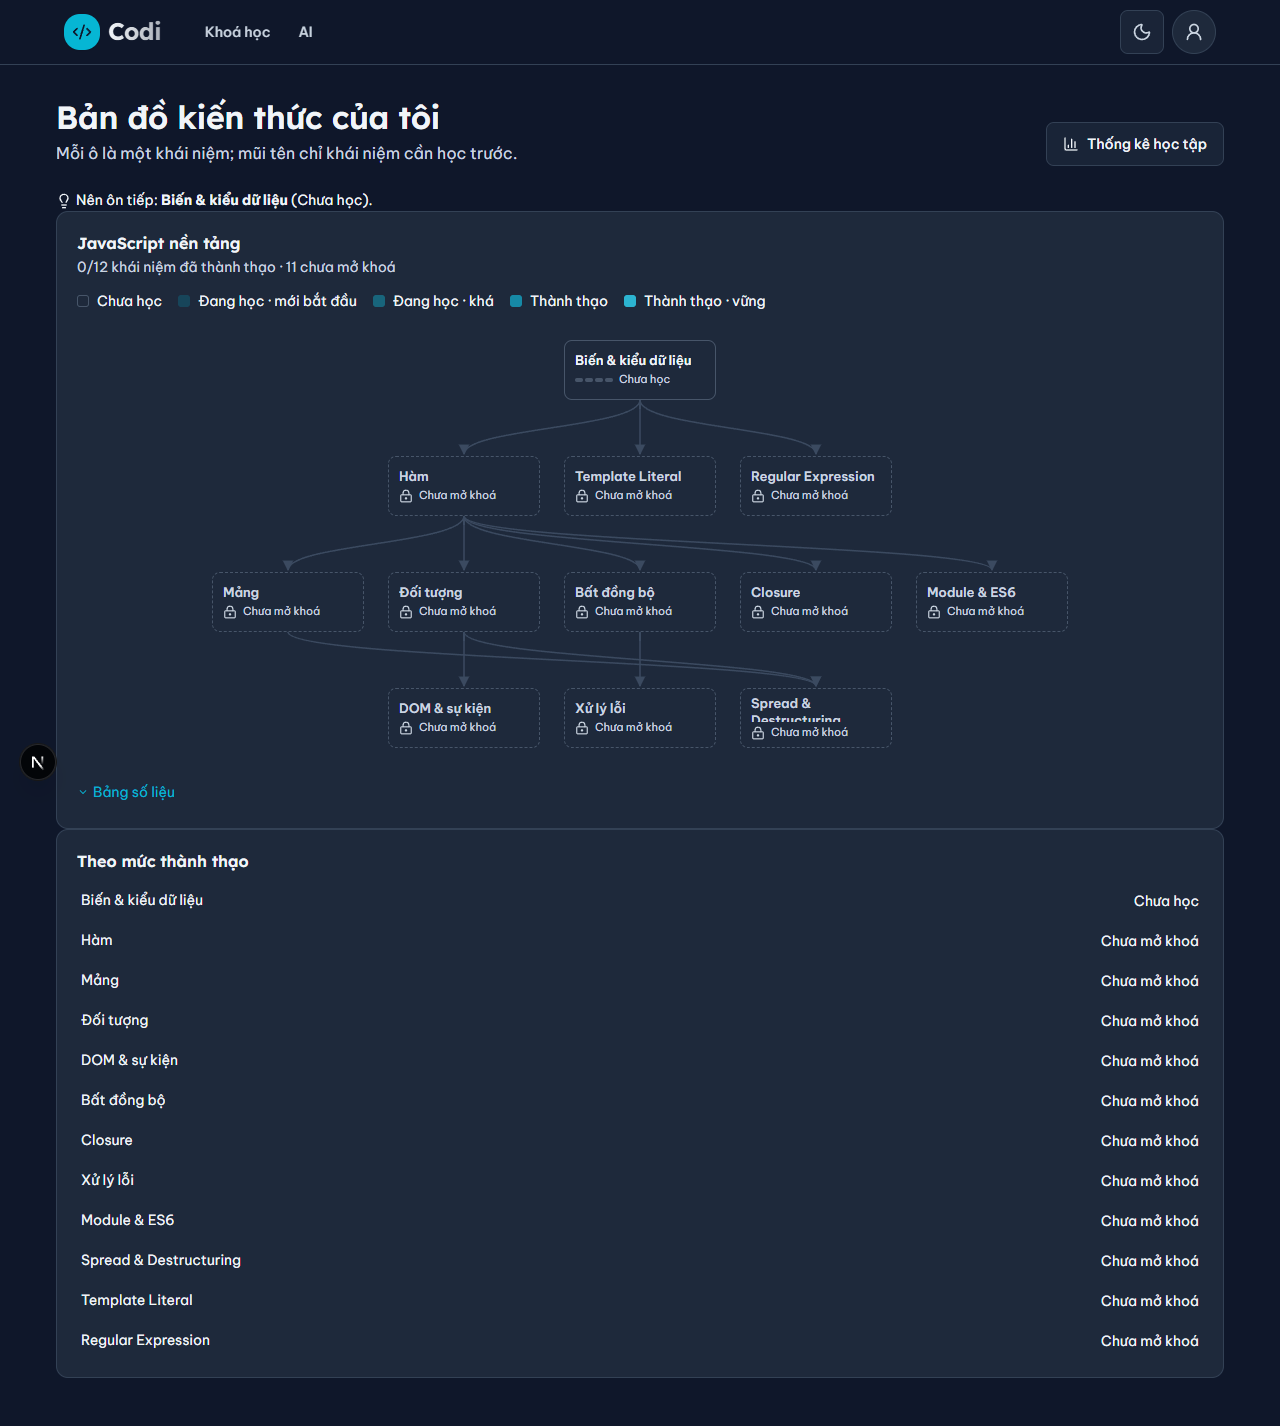
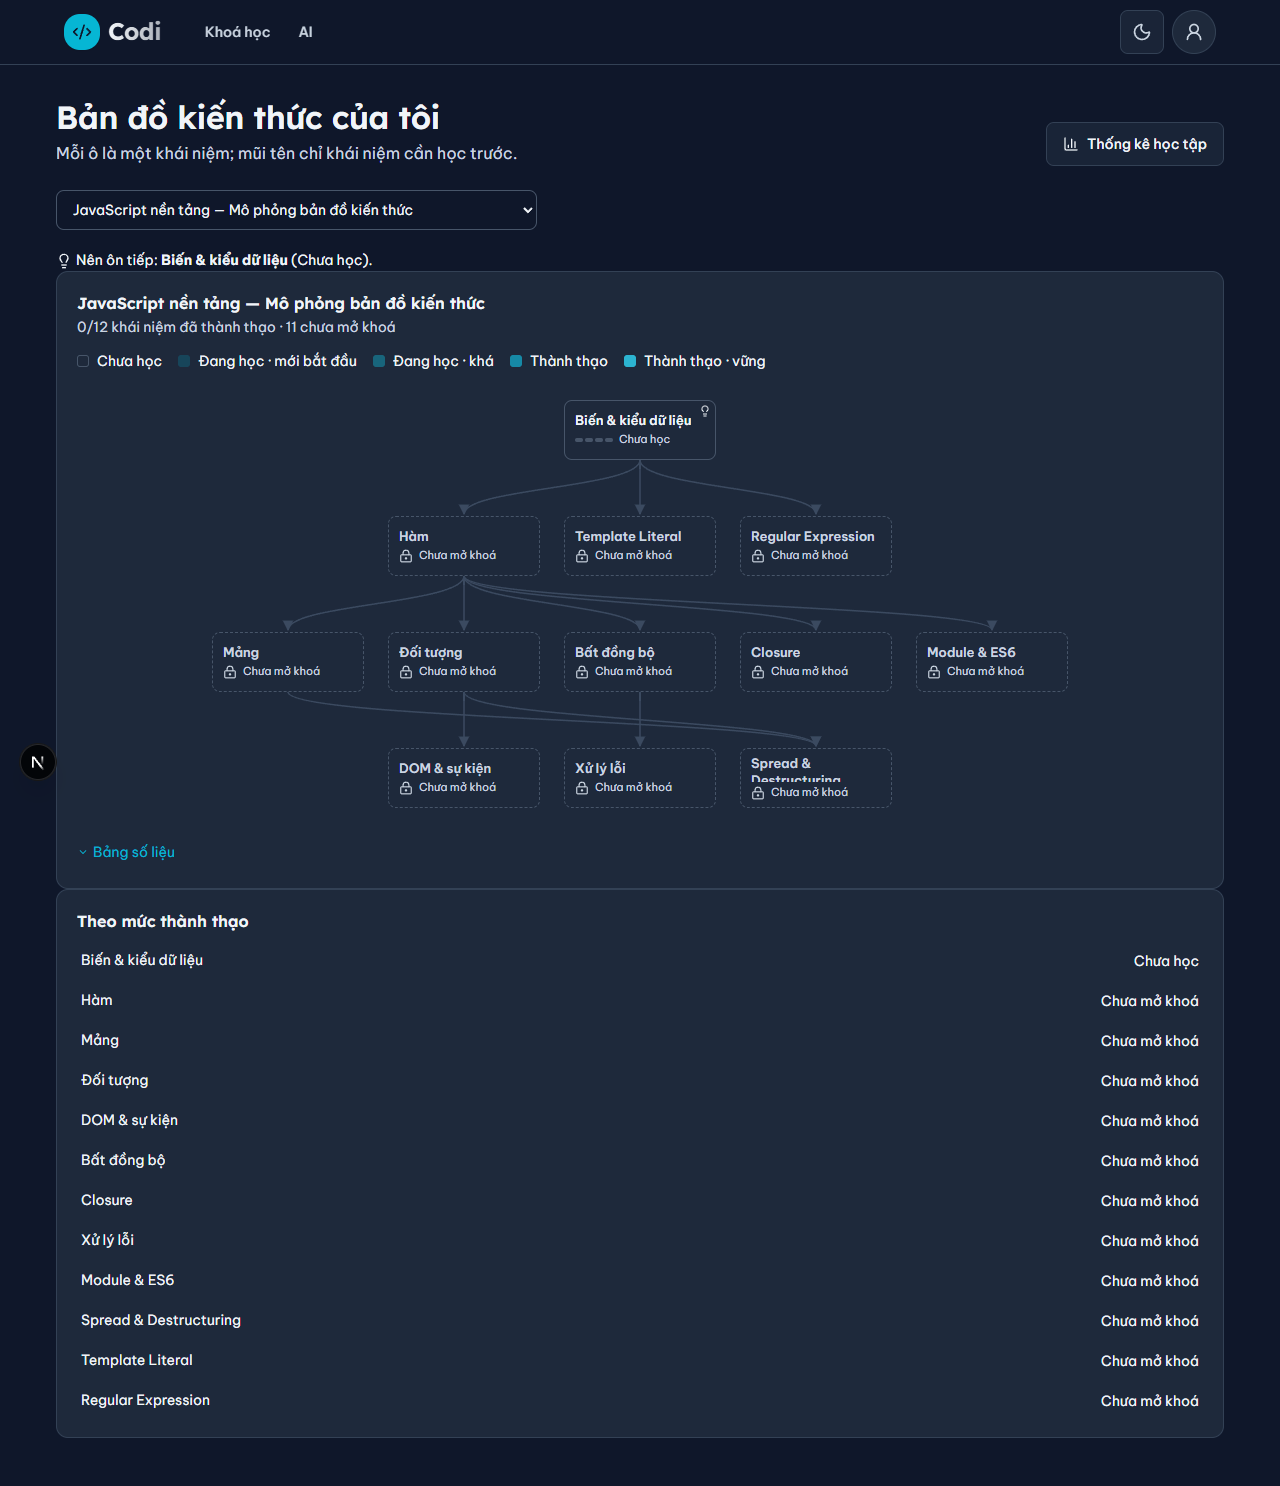
fix(knowledge-map): contain mobile graph and refresh full-page screenshots

diff --git a/apps/web/src/app/learn/[courseId]/course-home.tsx b/apps/web/src/app/learn/[courseId]/course-home.tsx
@@ -258,7 +258,7 @@ export default function CourseHome({
       ? GOAL_LABELS[data.goal as keyof typeof GOAL_LABELS]
       : "Chưa đặt mục tiêu";
   return (
-    <main className="mx-auto w-full max-w-6xl space-y-6 p-4 sm:p-6">
+    <main className="mx-auto min-w-0 w-full max-w-6xl space-y-6 p-4 sm:p-6">
       <nav className="text-sm text-muted-foreground" aria-label="Đường dẫn">
         <Link href="/dashboard">Bàn làm việc</Link> / {data.course.title}
       </nav>

diff --git a/apps/web/src/app/insights/knowledge-map/page.tsx b/apps/web/src/app/insights/knowledge-map/page.tsx
@@ -17,7 +17,7 @@ export default async function KnowledgeMapPage({
     );
   const { course } = await searchParams;
   return (
-    <main className="mx-auto w-full max-w-[1200px] px-4 pb-12 pt-8">
+    <main className="mx-auto min-w-0 w-full max-w-[1200px] px-4 pb-12 pt-8">
       <KnowledgeMap initialCourseId={course} />
     </main>
   );

diff --git a/docs/ui-review/issue-161/README.md b/docs/ui-review/issue-161/README.md
@@ -1,75 +1,55 @@
 # Issue #161 — Knowledge map mockup parity
 
-Epic #94 · S13c · Flow L12 · `/insights/knowledge-map`.
+Epic #94 · Module #97 · S13c / Flow L12 · `/insights/knowledge-map`.
 
 ## Implementation
 
-- Geometry matches `docs/mockup/js/charts.js`: nodes 152×60, horizontal gap 24, vertical gap 56, padding 16. Each topological layer is centred; edges run from the prerequisite's bottom centre to the next node's top centre.
-- Uses the existing `viz-s1…s4`, `viz-axis`, `viz-on-s4`, surface and border tokens in both themes. Locked nodes retain dashed borders and a lock label; mastery has text and a four-step meter.
-- Restores the page header, “Nên ôn tiếp”, legend, “Bảng số liệu” disclosure and sorted “Theo mức thành thạo” chart. The course selector appears only for multiple enrolled courses, as in the mock.
-- Selection still highlights ancestors and opens related lessons. Recommendation markers, confirmed-map visibility, ownership and lesson prerequisite checks retain the server contract. No schema/API changes.
-- The user explicitly chose to keep **Thống kê học tập** visible but disabled until the statistics module supplies `/insights/stats`; there is no link to a nonexistent route. This dependency must be resolved when that module is integrated.
-- PR #160 / issue #156 supplies the explicit lesson CTA separately. This branch starts from develop and leaves `ConceptDetails` lesson rendering untouched so that change can merge independently. Full UI-LRN-25 validation depends on integrating #160.
+- Matches the mockup's top-down geometry: 152×60 nodes, 24 horizontal gap, 56 vertical gap, 16 canvas padding and centred topological rows. Prerequisite edges use curved arrows.
+- Restores the page heading, recommendation, five-level legend, four-step node meters, table disclosure and sorted mastery chart. Selection keeps ancestor highlighting and the related lesson panel.
+- Uses actual API concepts, edges, mastery, ownership and prerequisite locks. Multiple courses retain a selector; unconfirmed maps remain hidden. No application API/schema or server guard changes.
+- The page and embedded course-home containers use `min-w-0` so the 888px graph scrolls inside its canvas at 375px rather than widening the whole document.
+- Adds **Học tập của tôi → Chức năng & Lối tắt → Bản đồ kiến thức**.
+- **Thống kê học tập** is visible but disabled as explicitly chosen by the user until the statistics module supplies a real route.
+- PR #160 / issue #156 remains separate at its original commit. This PR leaves lesson links in `ConceptDetails` unchanged; integrating the explicit “Học bài này” CTA and running UI-LRN-25 belongs to #160.
 
-## Mapping
+## Development course
 
-| Contract | Implementation | Verification |
-|---|---|---|
-| Read-only layered graph, mastery labels | `KnowledgeMap`, `KnowledgeMapNode`, `knowledgeGraphLayout`, `KnowledgeGraphLines` | Layout and component tests; desktop light geometry/background/radius compared with all 12 prototype nodes |
-| Selection and prerequisite path | Existing ancestor traversal and `ConceptDetails` | Component tests and browser selection assertions |
-| Locked lesson cannot navigate | Existing API/service lock fields and panel rendering | Existing guard tests; component and browser no-link assertions |
-| Diagnostic skipped / no evidence | Level zero, empty meter, no fabricated probability | Component tests and desktop light screenshot |
-| Empty / unconfirmed | `EmptyKnowledgeMap` | Existing tests, course-switch test, browser assertions |
-| Loading / HTTP failure / retry | Existing fetch lifecycle, visible retry | Component test and browser assertions |
-| Multiple courses | Selector, abort previous request, clear selection | Component course-switch test |
+`scripts/seed-knowledge-map-dev.ts` creates only a separate course `dev-knowledge-map-161` for an explicitly supplied learner ID. It has 12 concepts, 12 prerequisites, 12 lessons, 6 quizzes and a ready default path. Reading and quiz content come from the existing development exports. Existing learner activity is preserved on reruns.
 
-## Validation and remaining work
+Run from `apps/web`:
 
-- Full Vitest run: **72 files, 937 tests passed**, with `--coverage --maxWorkers=4`; configured coverage gate passed (98.95% statements, 85.16% branches, 96.96% functions, 98.84% lines). The configured coverage include list is shared infrastructure, not a claim of 98.95% graph coverage.
+```sh
+pnpm db:seed-knowledge-map -- --user-id=<learner-id>
+# Explicitly list this development simulation in the catalog:
+pnpm db:seed-knowledge-map -- --user-id=<learner-id> --catalog
+```
+
+The user authorized creating this development dataset and listing it on the test catalog as **JavaScript nền tảng — Mô phỏng bản đồ kiến thức**. It does not add seed fallbacks or scenario flags to application code. It changes no account passwords and requires no seed account password.
+
+Test entry: `/courses` → search “Mô phỏng bản đồ kiến thức” → **Tiếp tục học** → **Bản đồ kiến thức**. Direct course: `/learn/dev-knowledge-map-161`.
+
+## Validation
+
+- Full Vitest + configured coverage gate: **72 files, 937 tests passed**. Coverage: 98.95% statements, 85.16% branches, 96.96% functions, 98.84% lines. Coverage includes configured shared infrastructure, not a claim of graph-wide coverage.
+- Workspace `pnpm -r check-types`: passed after regenerating Next route types.
 - Design standards: **0 violations**.
-- Package type checks passed after regenerating stale Next route types left by the branch switch.
-- Desktop light browser assertions passed for the 12-node geometry/colours/radii, selection, ancestor highlighting, lock guards, table disclosure, unlearned state, empty/unconfirmed state and error retry. Loading was observed; the scratch suite then failed because its response-release callback had not yet been installed. The script was corrected to await the callback, but the subsequent Chrome launch was denied permission. **The complete browser matrix is not marked passed.**
-- **Still required before merge:** rerun the corrected browser suite on desktop 1280px and mobile 375px, in light and dark; refresh screenshots after the final chart-label/shadow/spacing polish. Current images show the earlier desktop light pass. Element screenshots include the shared sticky header, which can obscure the page heading; replace them with full-page captures.
-- Browser fixtures use the prototype's JavaScript course data and mocked API/session responses, not authenticated production accounts. No seeded authenticated end-to-end run is claimed.
+- Real service verification: confirmed graph, 12 nodes / 12 edges / layers **1–3–5–3**, 3 mastered, only “Xử lý lỗi” locked, next review “Bất đồng bộ”; 12 lesson rows, 6 quiz rows, ready default path, first lesson access allowed. The real catalog API includes the simulation.
+- Browser: **desktop 1280px / mobile 375px × light / dark passed**. Compared every node's geometry, background and radius with the prototype; selection, ancestor highlighting, lock/no-link, table, all-unlearned, empty/unconfirmed, error/retry and loading passed. No document overflow or browser page errors.
+- Current full-page screenshots below use the actual application component and a fresh real-service payload from the development course. API/session interception is used only by the temporary screenshot harness; the photos do not claim an authenticated lesson-player E2E run. Forced loading/error/unconfirmed/empty states are fixture responses.
+- Temporary screenshot route removed. No `.env`, credentials or browser state committed; `docs/mockup/**` unchanged. Images are committed alongside the implementation because direct GitHub drag-and-drop upload is unavailable.
 
-## Follow-up review on 2026-10-20
+## Current full-page screenshots
 
-- User requested a separate real development dataset matching the left-hand mockup, rather than changing the existing three-concept TypeScript course.
-- Added `scripts/seed-knowledge-map-dev.ts` and `pnpm --filter web db:seed-knowledge-map -- --user-id=<learner-id>`. The account is explicit; no password is needed. It creates a hidden course `dev-knowledge-map-161` titled “JavaScript nền tảng”, using concepts, prerequisites and mastery from the existing mockup export. Existing courses and progress are untouched; reruns preserve the fixture enrollment's learner activity.
-- Seeded only the learner account selected by the user. Verified through `createLearningPathService.getKnowledgeMap`: confirmed, 12 concepts, 12 edges, layers 1–3–5–3, 3 mastered, only “Xử lý lỗi” locked, next concept “Bất đồng bộ”. Every concept has a real related lesson.
-- Web TypeScript check passed after the seed script was added.
-- Refreshed full-page desktop light/dark screenshots. Both desktop browser runs passed node geometry/colour comparisons and selection, lock, table, empty, unconfirmed, retry and loading checks. These replace the earlier desktop-only evidence described above.
-- The mobile light run found document-level horizontal overflow at the initial map capture. Mobile verification is **not passed**; investigate before PR. Dark mobile has not run.
-- User requested to inspect before any PR. Work paused for that review; no push or PR. Temporary browser fixture route removed.
+Mockup references: [desktop light](mockup-desktop-light-map.png), [desktop dark](mockup-desktop-dark-map.png), [mobile light](mockup-mobile-light-map.png), [mobile dark](mockup-mobile-dark-map.png). The static prototype has no interactive node panel; Flow L12 defines selection/related lessons.
 
-Review URL: `http://localhost:3001/insights/knowledge-map?course=dev-knowledge-map-161`.
-
-## Testable course follow-up
-
-- On the user's request, expanded the same separate course into a usable simulation: 12 published reading lessons and 6 published quizzes copied from the existing JavaScript mockup export. Related reading content comes from `js-course-content.json` where available. Quiz answers use the snapshot's `correctIndex`; no assessment submissions are fabricated.
-- Initializes an untouched fixture enrollment with a ready default path. Existing goals, path choices, mastery and activity are preserved on reruns. No AI provider calls are needed.
-- Real service verification passed: course path ready/default, 12 lesson rows, 6 quiz rows, a current lesson with access allowed; the map remains confirmed with 12 nodes, 12 edges and layers 1–3–5–3.
-- Added a learner dashboard shortcut: **Học tập của tôi → Chức năng & Lối tắt → Bản đồ kiến thức**. Select “JavaScript nền tảng” to view this fixture. Direct course entry: `http://localhost:3001/learn/dev-knowledge-map-161`, then **Bản đồ kiến thức** beside **Lộ trình học**.
-- This follow-up does not resolve the previously recorded mobile overflow. No push or PR has been made; the user is still reviewing.
-
-## Catalog entry requested for manual testing
-
-- The user clarified that the simulation must appear on the **Khoá học** catalog itself. Ran the development seed with `--catalog`, publishing only `dev-knowledge-map-161` with the distinct title **JavaScript nền tảng — Mô phỏng bản đồ kiến thức**. The existing selected learner enrollment and activity remain unchanged.
-- Verified the real `/api/courses` response includes this ID with `status: published` and price 0. The existing catalog card's owned-course action routes to `/learn/dev-knowledge-map-161`; from there choose **Bản đồ kiến thức**. Search for “Mô phỏng bản đồ kiến thức” on `/courses` to locate it.
-- No catalog API filters or publication rules for other courses were changed. `--catalog` is an explicit development-seed option; ordinary reruns do not change visibility.
-- Temporary fixture route was removed. No `.env`, credentials, fake data or scenario flags are shipped in application code. `docs/mockup/**` is unchanged.
-- Images are stored in this repository as review evidence. Direct GitHub drag-and-drop uploads are unavailable in this environment.
-
-## Screenshot evidence (desktop light, pending final refresh)
-
-| State | Mockup | Implementation |
-|---|---|---|
-| Confirmed map | ![Mock map](mockup-desktop-light-map.png) | ![Map](implementation-desktop-light-map.png) |
-| All unlearned | ![Mock unlearned](mockup-desktop-light-unlearned.png) | ![Unlearned](implementation-desktop-light-unlearned.png) |
-| Selected, unlocked | Standalone prototype has no interactive panel; Flow L12 defines it | ![Selected](implementation-desktop-light-selected.png) |
-| Selected, locked | Same limitation | ![Locked](implementation-desktop-light-locked.png) |
-| Table expanded | Data-equivalent table under the graph | ![Table](implementation-desktop-light-table.png) |
-| Unconfirmed | Backend condition absent from standalone prototype | ![Unconfirmed](implementation-desktop-light-unconfirmed.png) |
-| No enrolments | Empty state | ![Empty](implementation-desktop-light-empty.png) |
-| HTTP error | Network condition absent from static prototype | ![Error](implementation-desktop-light-error.png) |
-| Loading | Network condition absent from static prototype | ![Loading](implementation-desktop-light-loading.png) |
+| State | Desktop light | Desktop dark | Mobile light | Mobile dark |
+|---|---|---|---|---|
+| Bản đồ | ![Bản đồ](implementation-desktop-light-map.png) | ![Bản đồ](implementation-desktop-dark-map.png) | ![Bản đồ](implementation-mobile-light-map.png) | ![Bản đồ](implementation-mobile-dark-map.png) |
+| Chọn bài mở khoá | ![Chọn bài mở khoá](implementation-desktop-light-selected.png) | ![Chọn bài mở khoá](implementation-desktop-dark-selected.png) | ![Chọn bài mở khoá](implementation-mobile-light-selected.png) | ![Chọn bài mở khoá](implementation-mobile-dark-selected.png) |
+| Chọn khái niệm bị khoá | ![Chọn khái niệm bị khoá](implementation-desktop-light-locked.png) | ![Chọn khái niệm bị khoá](implementation-desktop-dark-locked.png) | ![Chọn khái niệm bị khoá](implementation-mobile-light-locked.png) | ![Chọn khái niệm bị khoá](implementation-mobile-dark-locked.png) |
+| Bảng số liệu | ![Bảng số liệu](implementation-desktop-light-table.png) | ![Bảng số liệu](implementation-desktop-dark-table.png) | ![Bảng số liệu](implementation-mobile-light-table.png) | ![Bảng số liệu](implementation-mobile-dark-table.png) |
+| Chưa có bằng chứng | ![Chưa có bằng chứng](implementation-desktop-light-unlearned.png) | ![Chưa có bằng chứng](implementation-desktop-dark-unlearned.png) | ![Chưa có bằng chứng](implementation-mobile-light-unlearned.png) | ![Chưa có bằng chứng](implementation-mobile-dark-unlearned.png) |
+| Chưa xác nhận | ![Chưa xác nhận](implementation-desktop-light-unconfirmed.png) | ![Chưa xác nhận](implementation-desktop-dark-unconfirmed.png) | ![Chưa xác nhận](implementation-mobile-light-unconfirmed.png) | ![Chưa xác nhận](implementation-mobile-dark-unconfirmed.png) |
+| Chưa ghi danh | ![Chưa ghi danh](implementation-desktop-light-empty.png) | ![Chưa ghi danh](implementation-desktop-dark-empty.png) | ![Chưa ghi danh](implementation-mobile-light-empty.png) | ![Chưa ghi danh](implementation-mobile-dark-empty.png) |
+| Lỗi / thử lại | ![Lỗi / thử lại](implementation-desktop-light-error.png) | ![Lỗi / thử lại](implementation-desktop-dark-error.png) | ![Lỗi / thử lại](implementation-mobile-light-error.png) | ![Lỗi / thử lại](implementation-mobile-dark-error.png) |
+| Đang tải | ![Đang tải](implementation-desktop-light-loading.png) | ![Đang tải](implementation-desktop-dark-loading.png) | ![Đang tải](implementation-mobile-light-loading.png) | ![Đang tải](implementation-mobile-dark-loading.png) |
